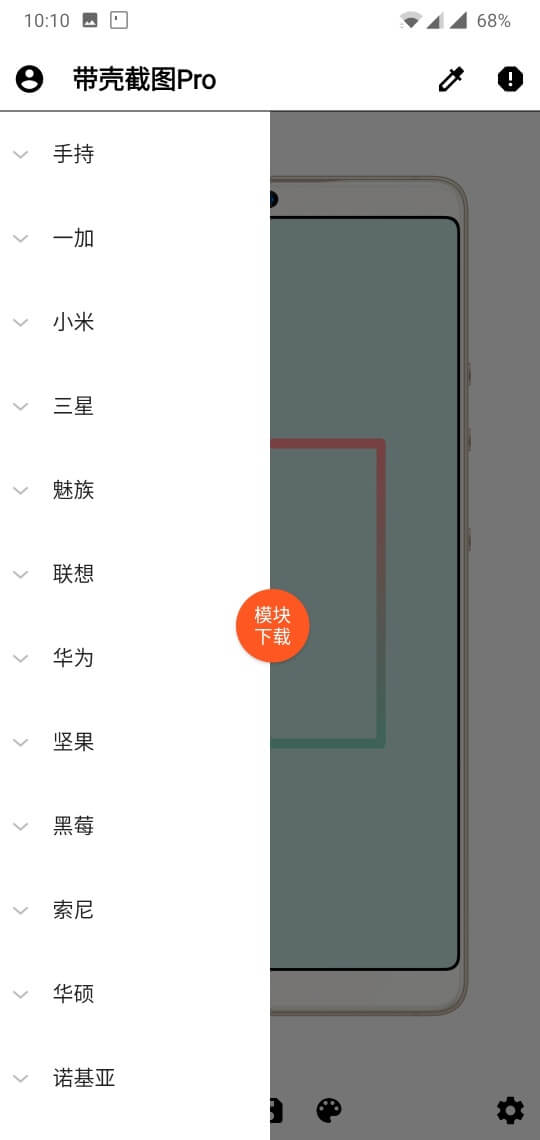
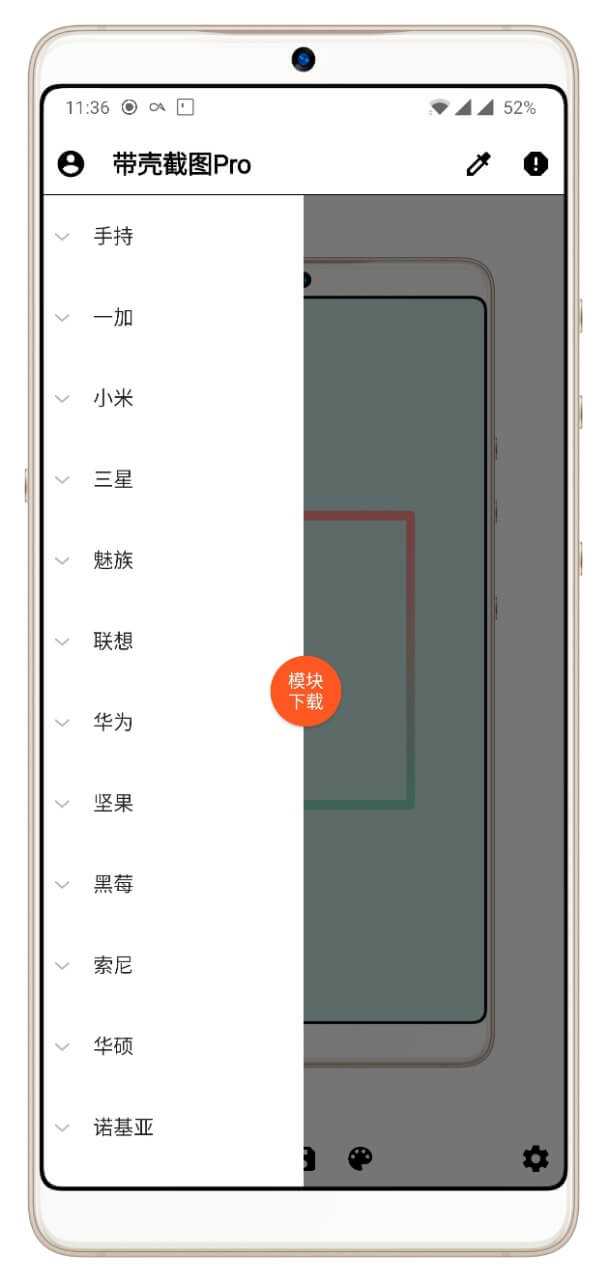
Site updated: 2018-11-30 11:43:59

Changed region(s): [[0.0296, 0.0, 1.0, 1.0], [0.1778, 0.2456, 0.2074, 0.2763]]

diff --git a/2018/11/30/su2/index.html b/2018/11/30/su2/index.html
@@ -17,7 +17,10 @@
 <meta property="og:locale" content="zh-CN">
 <meta property="og:image" content="http://yoursite.com/gallery/su2/1.jpg">
 <meta property="og:image" content="http://yoursite.com/gallery/su2/2.jpg">
-<meta property="og:updated_time" content="2018-11-30T03:30:20.392Z">
+<meta property="og:image" content="http://yoursite.com/gallery/su2/3.jpg">
+<meta property="og:image" content="http://yoursite.com/gallery/su2/4.jpg">
+<meta property="og:image" content="http://yoursite.com/gallery/su2/5.jpg">
+<meta property="og:updated_time" content="2018-11-30T03:43:38.101Z">
 <meta name="twitter:card" content="summary">
 <meta name="twitter:title" content="安卓应用_带壳截图Pro">
 <meta name="twitter:description" content="一款简单将截图套壳软件分享、美观且方便！截图分享，可能是每个人都有的，而我想给大家推荐一款可以将你的截图个性化的软件！  软件详情     项目 详情      开发者 苏lisong (本人)    应用系统 安卓     应用大小 1M+    下载链接 点击跳转">
@@ -135,13 +138,13 @@
         
         <div class="level article-meta is-size-7 is-uppercase is-mobile is-overflow-x-auto">
             <div class="level-left">
-                <time class="level-item has-text-grey" datetime="2018-11-30T03:30:20.432Z">2018-11-29</time>
+                <time class="level-item has-text-grey" datetime="2018-11-30T03:43:38.141Z">2018-11-29</time>
                 
                 
                 <span class="level-item has-text-grey">
                     
                     
-                    1 分钟 读完 (大约 142 个字)
+                    1 分钟 读完 (大约 151 个字)
                 </span>
                 
             </div>
@@ -182,8 +185,12 @@
 </tbody>
 </table>
  <a id="more"></a>
-<p> <strong> 软件预览 </strong><br> 软件界面如下：<br> <img src="/gallery/su2/1.jpg" alt="使用引导"><br> <img src="/gallery/su2/2.jpg" alt="软件主页"></p>
-<p> <strong> 使用效果图 </strong><br> 软件使用效果图如下：</p>
+<p> <strong> 软件预览 </strong></p>
+<p> 软件界面如下：</p>
+<p> <img src="/gallery/su2/1.jpg" alt="使用引导"><br> <img src="/gallery/su2/2.jpg" alt="软件主页"></p>
+<p> <strong> 使用效果图 </strong></p>
+<p> 软件使用效果图如下：</p>
+<p> <img src="/gallery/su2/3.jpg" alt=""><br> <img src="/gallery/su2/4.jpg" alt=""><br> <img src="/gallery/su2/5.jpg" alt=""></p>
 
         </div>
         
@@ -419,7 +426,7 @@
             
             <div class="media-content">
                 <div class="content">
-                    <div><time class="has-text-grey is-size-7 is-uppercase" datetime="2018-11-30T03:30:20.432Z">2018-11-29</time></div>
+                    <div><time class="has-text-grey is-size-7 is-uppercase" datetime="2018-11-30T03:43:38.141Z">2018-11-29</time></div>
                     <a href="/2018/11/30/su2/" class="has-link-black-ter is-size-6">安卓应用_带壳截图Pro</a>
                     <p class="is-size-7 is-uppercase">
                         
@@ -557,7 +564,7 @@
             
             <div class="media-content">
                 <div class="content">
-                    <div><time class="has-text-grey is-size-7 is-uppercase" datetime="2018-11-30T03:30:20.432Z">2018-11-29</time></div>
+                    <div><time class="has-text-grey is-size-7 is-uppercase" datetime="2018-11-30T03:43:38.141Z">2018-11-29</time></div>
                     <a href="/2018/11/30/su2/" class="has-link-black-ter is-size-6">安卓应用_带壳截图Pro</a>
                     <p class="is-size-7 is-uppercase">
                         

diff --git a/index.html b/index.html
@@ -131,13 +131,13 @@
         
         <div class="level article-meta is-size-7 is-uppercase is-mobile is-overflow-x-auto">
             <div class="level-left">
-                <time class="level-item has-text-grey" datetime="2018-11-30T03:30:20.432Z">2018-11-29</time>
+                <time class="level-item has-text-grey" datetime="2018-11-30T03:43:38.141Z">2018-11-29</time>
                 
                 
                 <span class="level-item has-text-grey">
                     
                     
-                    1 分钟 读完 (大约 142 个字)
+                    1 分钟 读完 (大约 151 个字)
                 </span>
                 
             </div>
@@ -458,7 +458,7 @@
             
             <div class="media-content">
                 <div class="content">
-                    <div><time class="has-text-grey is-size-7 is-uppercase" datetime="2018-11-30T03:30:20.432Z">2018-11-29</time></div>
+                    <div><time class="has-text-grey is-size-7 is-uppercase" datetime="2018-11-30T03:43:38.141Z">2018-11-29</time></div>
                     <a href="/2018/11/30/su2/" class="has-link-black-ter is-size-6">安卓应用_带壳截图Pro</a>
                     <p class="is-size-7 is-uppercase">
                         
@@ -596,7 +596,7 @@
             
             <div class="media-content">
                 <div class="content">
-                    <div><time class="has-text-grey is-size-7 is-uppercase" datetime="2018-11-30T03:30:20.432Z">2018-11-29</time></div>
+                    <div><time class="has-text-grey is-size-7 is-uppercase" datetime="2018-11-30T03:43:38.141Z">2018-11-29</time></div>
                     <a href="/2018/11/30/su2/" class="has-link-black-ter is-size-6">安卓应用_带壳截图Pro</a>
                     <p class="is-size-7 is-uppercase">
                         

diff --git a/tags/资源分享/index.html b/tags/资源分享/index.html
@@ -141,13 +141,13 @@
         
         <div class="level article-meta is-size-7 is-uppercase is-mobile is-overflow-x-auto">
             <div class="level-left">
-                <time class="level-item has-text-grey" datetime="2018-11-30T03:30:20.432Z">2018-11-29</time>
+                <time class="level-item has-text-grey" datetime="2018-11-30T03:43:38.141Z">2018-11-29</time>
                 
                 
                 <span class="level-item has-text-grey">
                     
                     
-                    1 分钟 读完 (大约 142 个字)
+                    1 分钟 读完 (大约 151 个字)
                 </span>
                 
             </div>
@@ -383,7 +383,7 @@
             
             <div class="media-content">
                 <div class="content">
-                    <div><time class="has-text-grey is-size-7 is-uppercase" datetime="2018-11-30T03:30:20.432Z">2018-11-29</time></div>
+                    <div><time class="has-text-grey is-size-7 is-uppercase" datetime="2018-11-30T03:43:38.141Z">2018-11-29</time></div>
                     <a href="/2018/11/30/su2/" class="has-link-black-ter is-size-6">安卓应用_带壳截图Pro</a>
                     <p class="is-size-7 is-uppercase">
                         
@@ -521,7 +521,7 @@
             
             <div class="media-content">
                 <div class="content">
-                    <div><time class="has-text-grey is-size-7 is-uppercase" datetime="2018-11-30T03:30:20.432Z">2018-11-29</time></div>
+                    <div><time class="has-text-grey is-size-7 is-uppercase" datetime="2018-11-30T03:43:38.141Z">2018-11-29</time></div>
                     <a href="/2018/11/30/su2/" class="has-link-black-ter is-size-6">安卓应用_带壳截图Pro</a>
                     <p class="is-size-7 is-uppercase">
                         

diff --git a/archives/2018/11/index.html b/archives/2018/11/index.html
@@ -137,7 +137,7 @@
                 
                 <div class="media-content">
                     <div class="content">
-                        <time class="has-text-grey is-size-7 is-block is-uppercase" datetime="2018-11-30T03:30:20.432Z">2018-11-29</time>
+                        <time class="has-text-grey is-size-7 is-block is-uppercase" datetime="2018-11-30T03:43:38.141Z">2018-11-29</time>
                         <a href="/2018/11/30/su2/" class="has-link-black-ter is-size-6">安卓应用_带壳截图Pro</a>
                         <div class="level article-meta is-mobile">
                             <div class="level-left">
@@ -372,7 +372,7 @@
             
             <div class="media-content">
                 <div class="content">
-                    <div><time class="has-text-grey is-size-7 is-uppercase" datetime="2018-11-30T03:30:20.432Z">2018-11-29</time></div>
+                    <div><time class="has-text-grey is-size-7 is-uppercase" datetime="2018-11-30T03:43:38.141Z">2018-11-29</time></div>
                     <a href="/2018/11/30/su2/" class="has-link-black-ter is-size-6">安卓应用_带壳截图Pro</a>
                     <p class="is-size-7 is-uppercase">
                         
@@ -510,7 +510,7 @@
             
             <div class="media-content">
                 <div class="content">
-                    <div><time class="has-text-grey is-size-7 is-uppercase" datetime="2018-11-30T03:30:20.432Z">2018-11-29</time></div>
+                    <div><time class="has-text-grey is-size-7 is-uppercase" datetime="2018-11-30T03:43:38.141Z">2018-11-29</time></div>
                     <a href="/2018/11/30/su2/" class="has-link-black-ter is-size-6">安卓应用_带壳截图Pro</a>
                     <p class="is-size-7 is-uppercase">
                         

diff --git a/archives/2018/index.html b/archives/2018/index.html
@@ -137,7 +137,7 @@
                 
                 <div class="media-content">
                     <div class="content">
-                        <time class="has-text-grey is-size-7 is-block is-uppercase" datetime="2018-11-30T03:30:20.432Z">2018-11-29</time>
+                        <time class="has-text-grey is-size-7 is-block is-uppercase" datetime="2018-11-30T03:43:38.141Z">2018-11-29</time>
                         <a href="/2018/11/30/su2/" class="has-link-black-ter is-size-6">安卓应用_带壳截图Pro</a>
                         <div class="level article-meta is-mobile">
                             <div class="level-left">
@@ -372,7 +372,7 @@
             
             <div class="media-content">
                 <div class="content">
-                    <div><time class="has-text-grey is-size-7 is-uppercase" datetime="2018-11-30T03:30:20.432Z">2018-11-29</time></div>
+                    <div><time class="has-text-grey is-size-7 is-uppercase" datetime="2018-11-30T03:43:38.141Z">2018-11-29</time></div>
                     <a href="/2018/11/30/su2/" class="has-link-black-ter is-size-6">安卓应用_带壳截图Pro</a>
                     <p class="is-size-7 is-uppercase">
                         
@@ -510,7 +510,7 @@
             
             <div class="media-content">
                 <div class="content">
-                    <div><time class="has-text-grey is-size-7 is-uppercase" datetime="2018-11-30T03:30:20.432Z">2018-11-29</time></div>
+                    <div><time class="has-text-grey is-size-7 is-uppercase" datetime="2018-11-30T03:43:38.141Z">2018-11-29</time></div>
                     <a href="/2018/11/30/su2/" class="has-link-black-ter is-size-6">安卓应用_带壳截图Pro</a>
                     <p class="is-size-7 is-uppercase">
                         

diff --git a/archives/index.html b/archives/index.html
@@ -137,7 +137,7 @@
                 
                 <div class="media-content">
                     <div class="content">
-                        <time class="has-text-grey is-size-7 is-block is-uppercase" datetime="2018-11-30T03:30:20.432Z">2018-11-29</time>
+                        <time class="has-text-grey is-size-7 is-block is-uppercase" datetime="2018-11-30T03:43:38.141Z">2018-11-29</time>
                         <a href="/2018/11/30/su2/" class="has-link-black-ter is-size-6">安卓应用_带壳截图Pro</a>
                         <div class="level article-meta is-mobile">
                             <div class="level-left">
@@ -372,7 +372,7 @@
             
             <div class="media-content">
                 <div class="content">
-                    <div><time class="has-text-grey is-size-7 is-uppercase" datetime="2018-11-30T03:30:20.432Z">2018-11-29</time></div>
+                    <div><time class="has-text-grey is-size-7 is-uppercase" datetime="2018-11-30T03:43:38.141Z">2018-11-29</time></div>
                     <a href="/2018/11/30/su2/" class="has-link-black-ter is-size-6">安卓应用_带壳截图Pro</a>
                     <p class="is-size-7 is-uppercase">
                         
@@ -510,7 +510,7 @@
             
             <div class="media-content">
                 <div class="content">
-                    <div><time class="has-text-grey is-size-7 is-uppercase" datetime="2018-11-30T03:30:20.432Z">2018-11-29</time></div>
+                    <div><time class="has-text-grey is-size-7 is-uppercase" datetime="2018-11-30T03:43:38.141Z">2018-11-29</time></div>
                     <a href="/2018/11/30/su2/" class="has-link-black-ter is-size-6">安卓应用_带壳截图Pro</a>
                     <p class="is-size-7 is-uppercase">
                         

diff --git a/2018/11/29/su1/index.html b/2018/11/29/su1/index.html
@@ -376,7 +376,7 @@
             
             <div class="media-content">
                 <div class="content">
-                    <div><time class="has-text-grey is-size-7 is-uppercase" datetime="2018-11-30T03:30:20.432Z">2018-11-29</time></div>
+                    <div><time class="has-text-grey is-size-7 is-uppercase" datetime="2018-11-30T03:43:38.141Z">2018-11-29</time></div>
                     <a href="/2018/11/30/su2/" class="has-link-black-ter is-size-6">安卓应用_带壳截图Pro</a>
                     <p class="is-size-7 is-uppercase">
                         
@@ -514,7 +514,7 @@
             
             <div class="media-content">
                 <div class="content">
-                    <div><time class="has-text-grey is-size-7 is-uppercase" datetime="2018-11-30T03:30:20.432Z">2018-11-29</time></div>
+                    <div><time class="has-text-grey is-size-7 is-uppercase" datetime="2018-11-30T03:43:38.141Z">2018-11-29</time></div>
                     <a href="/2018/11/30/su2/" class="has-link-black-ter is-size-6">安卓应用_带壳截图Pro</a>
                     <p class="is-size-7 is-uppercase">
                         

diff --git a/2018/11/30/su3/index.html b/2018/11/30/su3/index.html
@@ -393,7 +393,7 @@
             
             <div class="media-content">
                 <div class="content">
-                    <div><time class="has-text-grey is-size-7 is-uppercase" datetime="2018-11-30T03:30:20.432Z">2018-11-29</time></div>
+                    <div><time class="has-text-grey is-size-7 is-uppercase" datetime="2018-11-30T03:43:38.141Z">2018-11-29</time></div>
                     <a href="/2018/11/30/su2/" class="has-link-black-ter is-size-6">安卓应用_带壳截图Pro</a>
                     <p class="is-size-7 is-uppercase">
                         
@@ -531,7 +531,7 @@
             
             <div class="media-content">
                 <div class="content">
-                    <div><time class="has-text-grey is-size-7 is-uppercase" datetime="2018-11-30T03:30:20.432Z">2018-11-29</time></div>
+                    <div><time class="has-text-grey is-size-7 is-uppercase" datetime="2018-11-30T03:43:38.141Z">2018-11-29</time></div>
                     <a href="/2018/11/30/su2/" class="has-link-black-ter is-size-6">安卓应用_带壳截图Pro</a>
                     <p class="is-size-7 is-uppercase">
                         

diff --git a/categories/index.html b/categories/index.html
@@ -308,7 +308,7 @@
             
             <div class="media-content">
                 <div class="content">
-                    <div><time class="has-text-grey is-size-7 is-uppercase" datetime="2018-11-30T03:30:20.432Z">2018-11-29</time></div>
+                    <div><time class="has-text-grey is-size-7 is-uppercase" datetime="2018-11-30T03:43:38.141Z">2018-11-29</time></div>
                     <a href="/2018/11/30/su2/" class="has-link-black-ter is-size-6">安卓应用_带壳截图Pro</a>
                     <p class="is-size-7 is-uppercase">
                         
@@ -446,7 +446,7 @@
             
             <div class="media-content">
                 <div class="content">
-                    <div><time class="has-text-grey is-size-7 is-uppercase" datetime="2018-11-30T03:30:20.432Z">2018-11-29</time></div>
+                    <div><time class="has-text-grey is-size-7 is-uppercase" datetime="2018-11-30T03:43:38.141Z">2018-11-29</time></div>
                     <a href="/2018/11/30/su2/" class="has-link-black-ter is-size-6">安卓应用_带壳截图Pro</a>
                     <p class="is-size-7 is-uppercase">
                         

diff --git a/tags/index.html b/tags/index.html
@@ -329,7 +329,7 @@
             
             <div class="media-content">
                 <div class="content">
-                    <div><time class="has-text-grey is-size-7 is-uppercase" datetime="2018-11-30T03:30:20.432Z">2018-11-29</time></div>
+                    <div><time class="has-text-grey is-size-7 is-uppercase" datetime="2018-11-30T03:43:38.141Z">2018-11-29</time></div>
                     <a href="/2018/11/30/su2/" class="has-link-black-ter is-size-6">安卓应用_带壳截图Pro</a>
                     <p class="is-size-7 is-uppercase">
                         
@@ -467,7 +467,7 @@
             
             <div class="media-content">
                 <div class="content">
-                    <div><time class="has-text-grey is-size-7 is-uppercase" datetime="2018-11-30T03:30:20.432Z">2018-11-29</time></div>
+                    <div><time class="has-text-grey is-size-7 is-uppercase" datetime="2018-11-30T03:43:38.141Z">2018-11-29</time></div>
                     <a href="/2018/11/30/su2/" class="has-link-black-ter is-size-6">安卓应用_带壳截图Pro</a>
                     <p class="is-size-7 is-uppercase">
                         

diff --git a/tags/测试/index.html b/tags/测试/index.html
@@ -348,7 +348,7 @@
             
             <div class="media-content">
                 <div class="content">
-                    <div><time class="has-text-grey is-size-7 is-uppercase" datetime="2018-11-30T03:30:20.432Z">2018-11-29</time></div>
+                    <div><time class="has-text-grey is-size-7 is-uppercase" datetime="2018-11-30T03:43:38.141Z">2018-11-29</time></div>
                     <a href="/2018/11/30/su2/" class="has-link-black-ter is-size-6">安卓应用_带壳截图Pro</a>
                     <p class="is-size-7 is-uppercase">
                         
@@ -486,7 +486,7 @@
             
             <div class="media-content">
                 <div class="content">
-                    <div><time class="has-text-grey is-size-7 is-uppercase" datetime="2018-11-30T03:30:20.432Z">2018-11-29</time></div>
+                    <div><time class="has-text-grey is-size-7 is-uppercase" datetime="2018-11-30T03:43:38.141Z">2018-11-29</time></div>
                     <a href="/2018/11/30/su2/" class="has-link-black-ter is-size-6">安卓应用_带壳截图Pro</a>
                     <p class="is-size-7 is-uppercase">
                         
